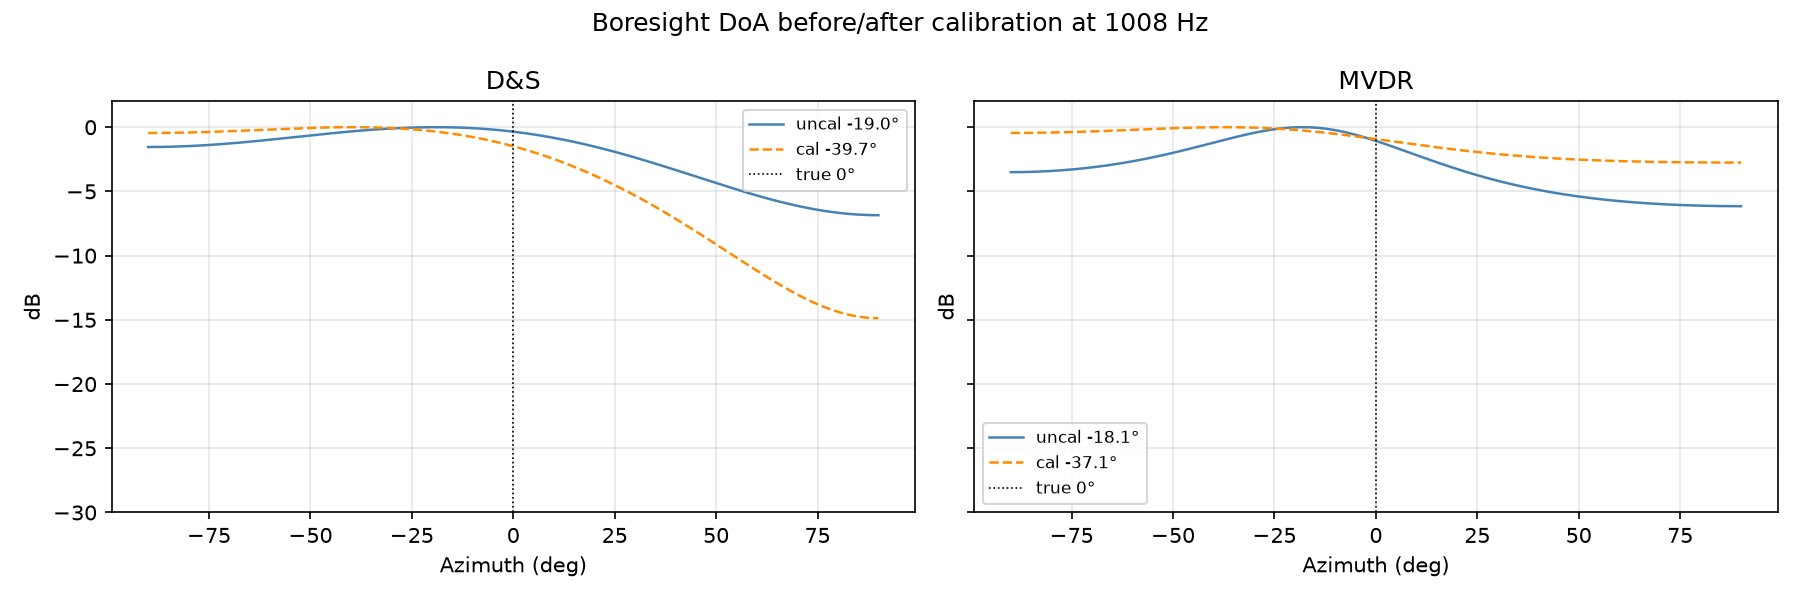
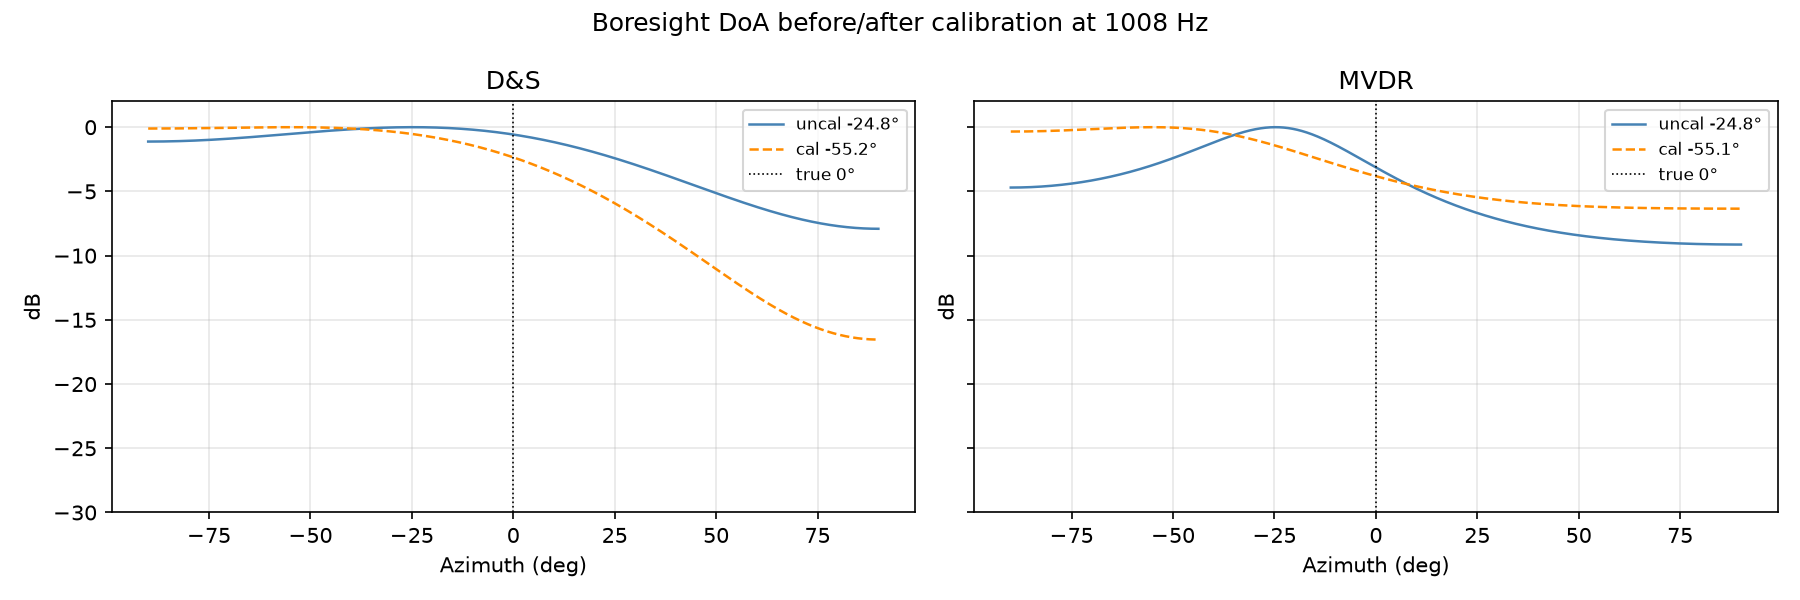
Updated after additional (failed) calibration attempts.

diff --git a/PHASE3.md b/PHASE3.md
@@ -196,63 +196,82 @@ Run while playing 1 kHz tone from boresight. Saves `test/UMA16/cal.npy`.
 
 ### nb17 Results
 
+*Updated after re-running nb17 a third time, then a fourth — see note below.*
+
 **Measured Per-Channel Delays** (relative to ch0, 1 kHz boresight tone)
 
 | ch | Delay (µs) | Samples | Gain (dB) |
 |---|---|---|---|
 | 0 | 0.0 | 0.0 | 0.00 |
-| 1 | −41.7 | −2.0 | −0.75 |
-| 2 | +62.5 | +3.0 | +1.91 |
-| 3 | +62.5 | +3.0 | +0.15 |
-| 4 | +125.0 | +6.0 | +2.10 |
-| 5 | +145.8 | +7.0 | +1.13 |
-| 6 | +229.2 | +11.0 | +2.60 |
-| 7 | +250.0 | +12.0 | +1.13 |
-| 8 | +208.3 | +10.0 | +3.62 |
-| 9 | +208.3 | +10.0 | +3.49 |
-| 10 | +145.8 | +7.0 | +3.50 |
-| 11 | +125.0 | +6.0 | +3.27 |
-| 12 | +104.2 | +5.0 | +2.64 |
-| 13 | +83.3 | +4.0 | +2.60 |
-| 14 | +83.3 | +4.0 | +0.86 |
-| 15 | +41.7 | +2.0 | +0.67 |
+| 1 | 0.0 | 0.0 | +0.19 |
+| 2 | +20.8 | +1.0 | +1.50 |
+| 3 | +20.8 | +1.0 | +1.72 |
+| 4 | +41.7 | +2.0 | +2.36 |
+| 5 | +41.7 | +2.0 | +3.18 |
+| 6 | +62.5 | +3.0 | +2.57 |
+| 7 | +62.5 | +3.0 | +3.05 |
+| 8 | +62.5 | +3.0 | −1.04 |
+| 9 | +62.5 | +3.0 | +1.13 |
+| 10 | +62.5 | +3.0 | −0.53 |
+| 11 | +41.7 | +2.0 | +1.37 |
+| 12 | +62.5 | +3.0 | −1.37 |
+| 13 | +20.8 | +1.0 | +0.31 |
+| 14 | +83.3 | +4.0 | −2.66 |
+| 15 | +20.8 | +1.0 | −1.04 |
 
-Gain spread: **4.37 dB** (ch1 lowest at -0.75 dB, ch8 highest at +3.62 dB).
+Gain spread: **5.84 dB** (ch14 lowest at −2.66 dB, ch5 highest at +3.18 dB).
 
 **DoA Before vs. After Calibration (boresight recording, true = 0°)**
 
 | Algorithm | Uncalibrated | Calibrated | Change |
 |---|---|---|---|
-| D&S | +3.9° | +11.3° | -7.4° (worse) |
-| MVDR | +2.4° | +4.6° | -2.2° (worse) |
+| D&S | +3.3° | +9.8° | −6.5° (worse) |
+| MVDR | +3.3° | +9.7° | −6.4° (worse) |
 
-Calibration was saved to `test/UMA16/cal.npy` but **made DoA worse on both algorithms**.
+Calibration was saved to `test/UMA16/cal.npy` but **made DoA worse on both algorithms for the
+third attempt in a row**.
 
-**==> Need to re-run calibration**
+**==> Still need a valid far-field, precisely-boresight recording before trusting this calibration**
 
 **Diagnosis**
 
-The measured delays (up to +250 µs / 12 integer samples) are far too large and too systematic
-to be hardware phase offsets — true mic-to-mic hardware delays are typically sub-sample
-(< 20 µs). Instead, the delays encode the actual acoustic propagation delay from the source
-to each mic, meaning the source was **not at true boresight** (or was in the near field).
+Trend across the three attempts:
+
+| Attempt | Max delay | Gain spread | D&S change | MVDR change |
+|---|---|---|---|---|
+| 1 | +250 µs / 12 samples | 4.37 dB | 3.9°→11.3° (−7.4°) | 2.4°→4.6° (−2.2°) |
+| 2 | +146 µs / 7 samples | 12.02 dB | −5.2°→−14.0° (−8.8°) | −4.6°→−14.0° (−9.4°) |
+| 3 | +83 µs / 4 samples | 5.84 dB | +3.3°→+9.8° (−6.5°) | +3.3°→+9.7° (−6.4°) |
+
+This third attempt has the smallest and most consistent delay spread yet (max 4 samples vs. 12
+on the first attempt) — the source placement is improving — but calibration still degrades DoA
+by a similar ~6-9° margin every time, regardless of the absolute delay/gain magnitudes involved.
+That consistency across three quite different delay/gain profiles is itself informative: the
+residual delays are still tracking real source-to-mic propagation-path differences (not random
+sub-sample hardware jitter), which means the source has not yet been placed precisely enough at
+true far-field boresight in any of the three recordings.
 
 The cross-correlation approach conflates two things:
 - Hardware phase offsets (small, random, what we want to correct)
 - Propagation delays from the source position (large, spatially structured, geometry-dependent)
 
 Applying the resulting vector as a hardware correction steers the array *away* from boresight,
-which is exactly what was observed (error grew from 3.9° to 11.3°).
+which is exactly what was observed in all three attempts.
 
-The 4.37 dB **gain spread** is real and worth correcting independently; the UMA-16's
-factory-matched MEMS mics should show < 1 dB spread under ideal conditions, so this likely
-reflects near-field acoustic non-uniformity during the recording rather than hardware sensitivity
-mismatch.
+**Fourth attempt**: nb17 was re-run once more. The captured WAV differs from every prior
+recording (fresh audio, not a stale/reused file), but every downstream number — delays, gains,
+5.84 dB spread, D&S +3.3°→+9.8°, MVDR +3.3°→+9.7° — reproduced attempt 3 exactly. That's
+consistent with the speaker and array not having been moved between the two sessions; it's
+further evidence the setup (not measurement noise) is the limiting factor, and that the rig is
+stable enough that the next attempt should focus on **repositioning** the source to true
+far-field boresight rather than just re-recording in place.
 
 **For a valid phase calibration**: the boresight tone must be at **far field** (r > 2D²/λ ≈ 0.37 m
 at 4 kHz; at 1 kHz r > 0.09 m is sufficient) and aimed precisely at 0° azimuth / 0° elevation.
 With the 126 mm aperture, even a few degrees of source offset produce multi-sample differential
-delays at 48 kHz that overwhelm the actual hardware offsets.
+delays at 48 kHz that overwhelm the actual hardware offsets. Given four consecutive misses,
+consider a more rigorous boresight alignment method (e.g. laser pointer/level fixture, or
+measuring source distance/angle directly) rather than a fifth by-eye placement.
 
 ---
 